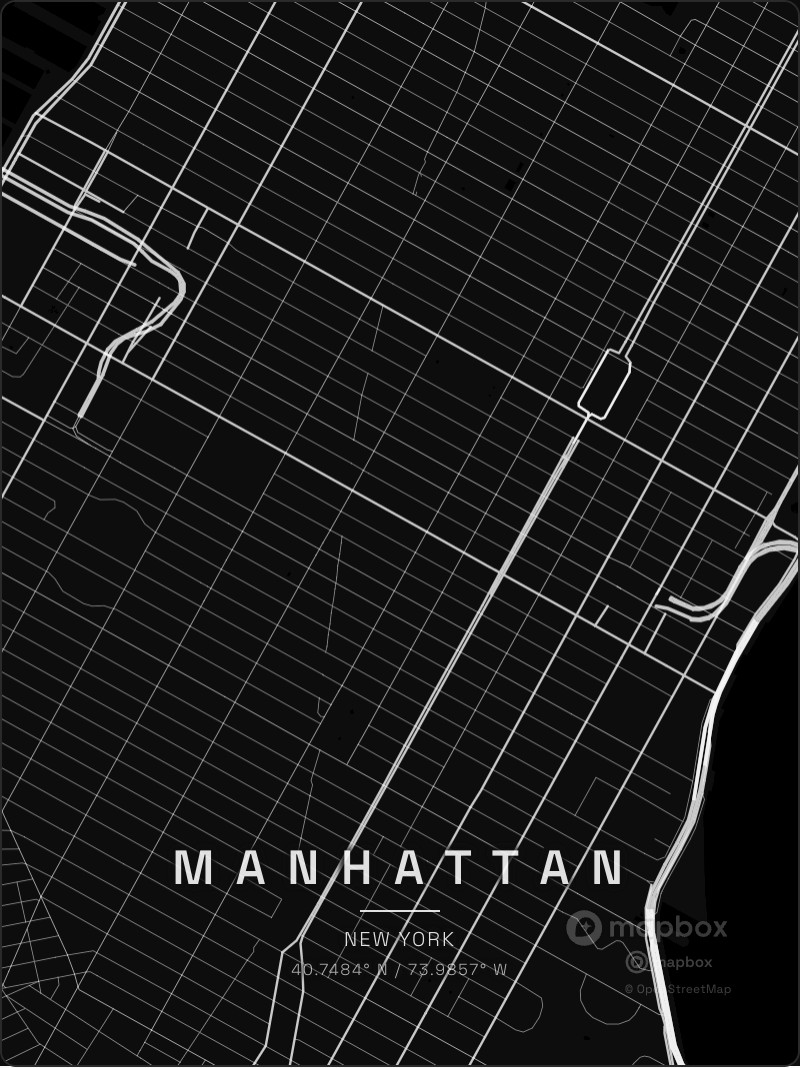
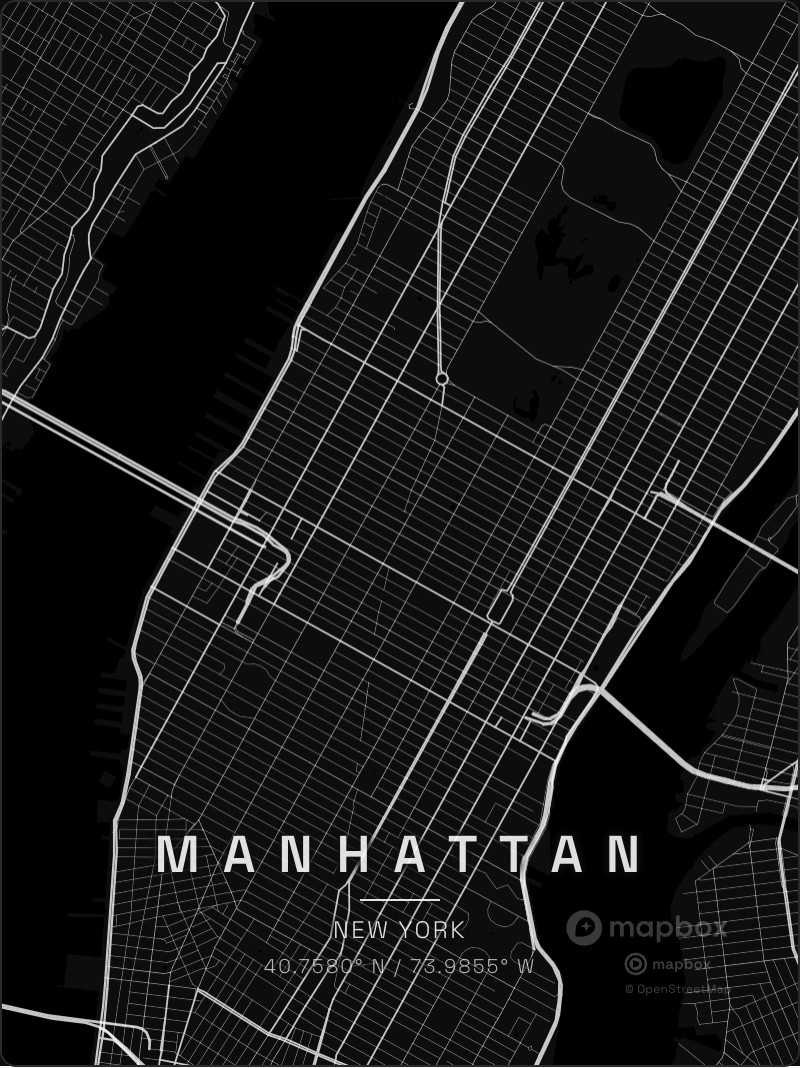
Replace Emerald theme with Coastal, regenerate gallery images
Theme changes:
- Replace "The Emerald" with "The Coastal" (Shoreline Serenity)
- Soft teals, aqua blues, sandy warm tones palette

Gallery updates:
- Manhattan in Obsidian, Chicago in Cobalt, Charleston in Parchment
- Tampa in Coastal, Austin in Copper
- Lower zoom (12 vs 13) for more city context

Changed region(s): [[0.0, 0.0, 1.0, 1.0], [0.4062, 0.0, 0.4688, 0.0618]]

diff --git a/src/app/gallery-render/page.tsx b/src/app/gallery-render/page.tsx
@@ -6,13 +6,13 @@ import MapPreview from "@/components/MapPreview";
 import themes from "@/data/themes.json";
 import type { Theme } from "@/lib/mapbox/applyTheme";
 
-// Gallery items configuration
+// Gallery items configuration - zoom 12 for more pulled-back city views
 const galleryConfig: Record<string, { lat: number; lng: number; state: string; zoom: number }> = {
-  manhattan: { lat: 40.7484, lng: -73.9857, state: "New York", zoom: 13 },
-  "san francisco": { lat: 37.7749, lng: -122.4194, state: "California", zoom: 13 },
-  tampa: { lat: 27.9506, lng: -82.4572, state: "Florida", zoom: 13 },
-  austin: { lat: 30.2672, lng: -97.7431, state: "Texas", zoom: 13 },
-  chicago: { lat: 41.8781, lng: -87.6298, state: "Illinois", zoom: 13 },
+  manhattan: { lat: 40.7580, lng: -73.9855, state: "New York", zoom: 12 },
+  chicago: { lat: 41.8781, lng: -87.6298, state: "Illinois", zoom: 12 },
+  charleston: { lat: 32.7765, lng: -79.9311, state: "South Carolina", zoom: 12 },
+  tampa: { lat: 27.9506, lng: -82.4572, state: "Florida", zoom: 12 },
+  austin: { lat: 30.2672, lng: -97.7431, state: "Texas", zoom: 12 },
 };
 
 function GalleryRenderContent() {

diff --git a/src/components/Gallery.tsx b/src/components/Gallery.tsx
@@ -9,10 +9,10 @@ import type { Theme } from "@/lib/mapbox/applyTheme";
 // Run `npm run generate-gallery` to regenerate
 const galleryItems = [
   { city: "Manhattan", state: "New York", themeId: "obsidian", image: "/gallery/manhattan-obsidian.jpg" },
-  { city: "San Francisco", state: "California", themeId: "cobalt", image: "/gallery/san-francisco-cobalt.jpg" },
-  { city: "Tampa", state: "Florida", themeId: "parchment", image: "/gallery/tampa-parchment.jpg" },
-  { city: "Austin", state: "Texas", themeId: "emerald", image: "/gallery/austin-emerald.jpg" },
-  { city: "Chicago", state: "Illinois", themeId: "copper", image: "/gallery/chicago-copper.jpg" },
+  { city: "Chicago", state: "Illinois", themeId: "cobalt", image: "/gallery/chicago-cobalt.jpg" },
+  { city: "Charleston", state: "South Carolina", themeId: "parchment", image: "/gallery/charleston-parchment.jpg" },
+  { city: "Tampa", state: "Florida", themeId: "coastal", image: "/gallery/tampa-coastal.jpg" },
+  { city: "Austin", state: "Texas", themeId: "copper", image: "/gallery/austin-copper.jpg" },
 ];
 
 function MapPreviewCard({

diff --git a/src/components/RenderingOverlay.tsx b/src/components/RenderingOverlay.tsx
@@ -24,7 +24,7 @@ const getStatusMessages = (themeName?: string): string[] => {
     "The Obsidian": "Applying Obsidian Vector Layers...",
     "The Cobalt": "Rendering Blueprint Heritage Vectors...",
     "The Parchment": "Tracing Architectural Draft Lines...",
-    "The Emerald": "Processing Verdant Geometry Paths...",
+    "The Coastal": "Mapping Shoreline Serenity Paths...",
     "The Copper": "Forging Industrial Copper Routes...",
   };
 
